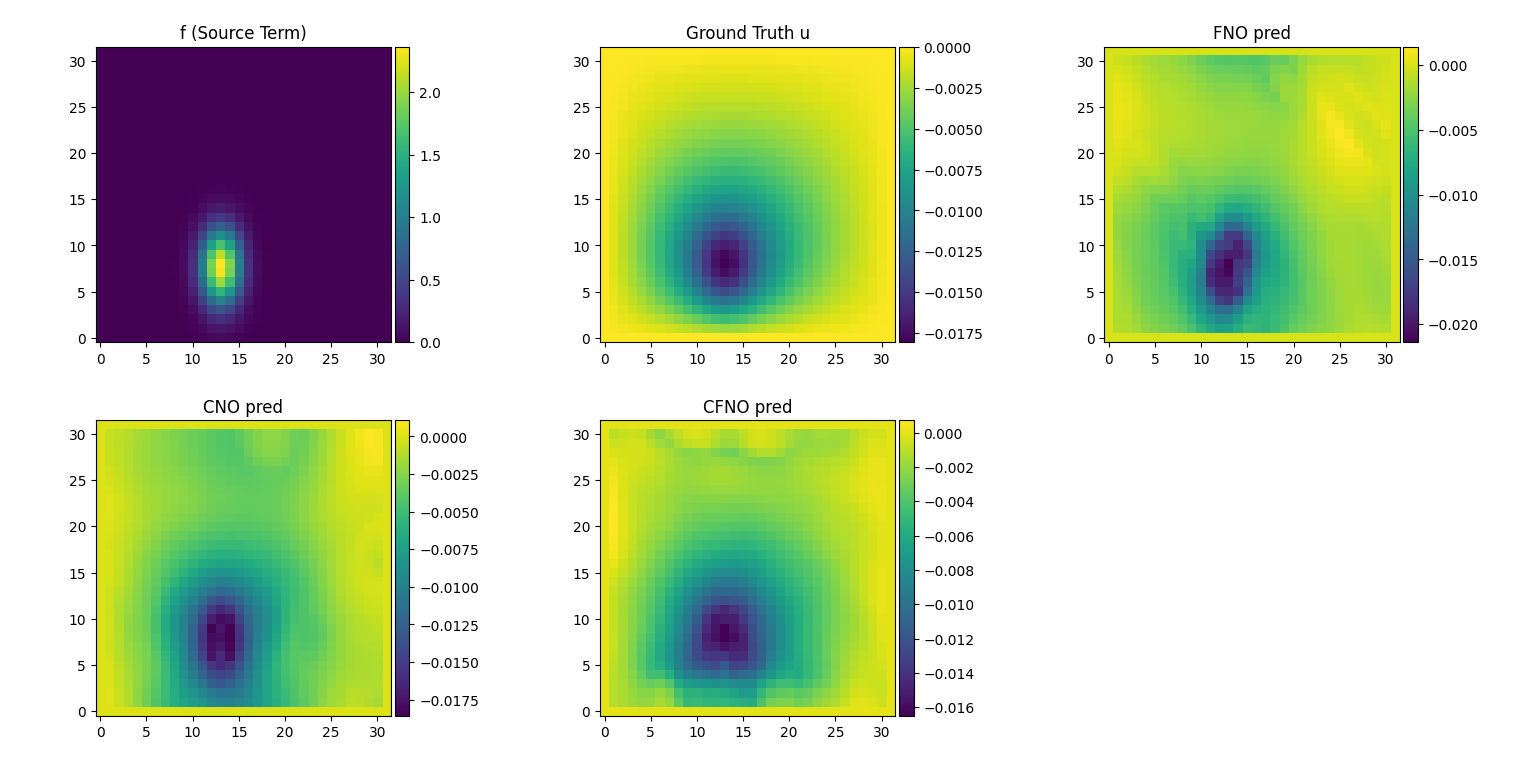
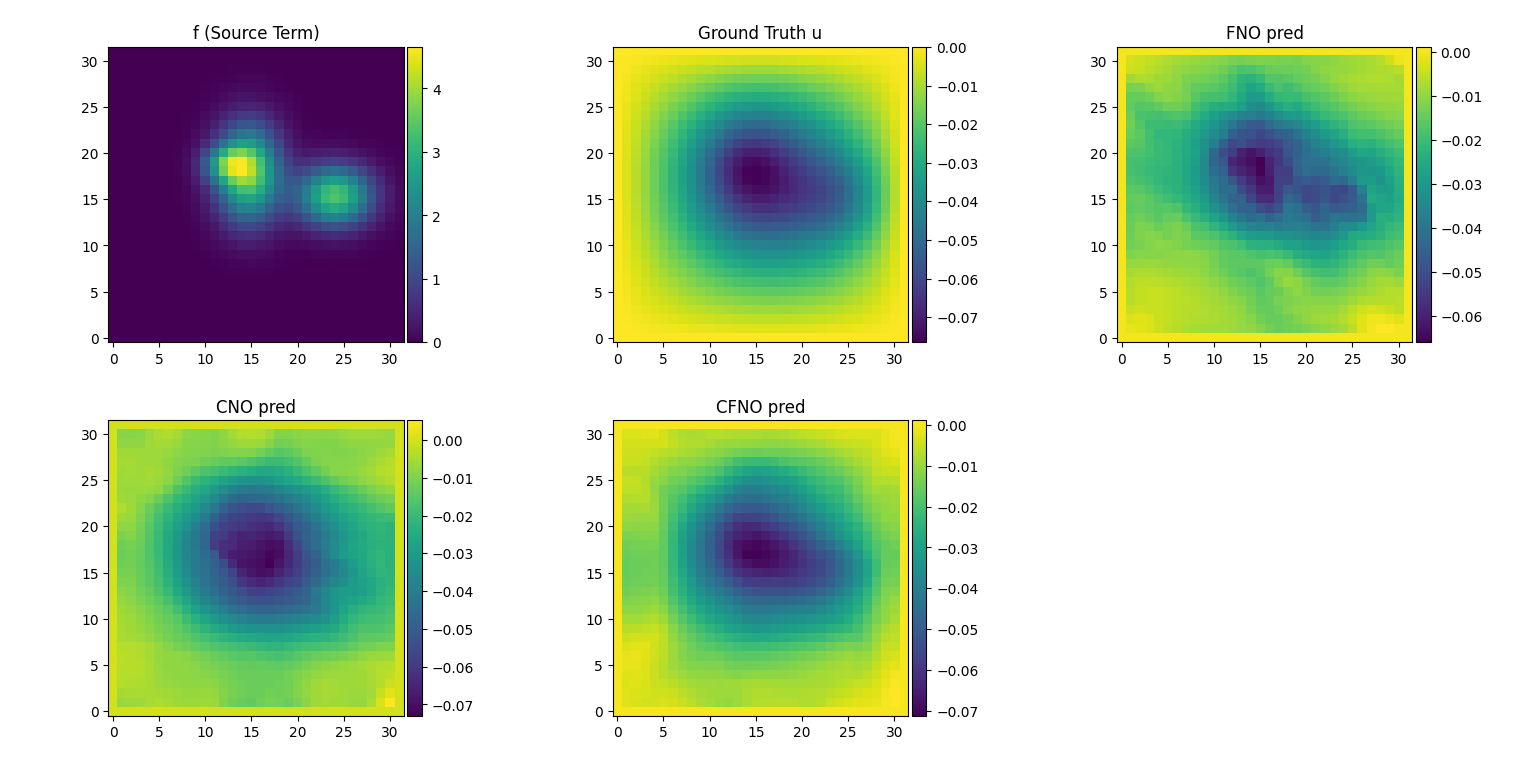
Add files via upload

diff --git a/WhyWeakFNO/CFNOvsCNOvsFNO.py b/WhyWeakFNO/CFNOvsCNOvsFNO.py
@@ -25,6 +25,9 @@ def seed_everything(seed):
     torch.backends.cudnn.benchmark = False
 
 
+seed_everything(seed=114514)
+
+
 # -------------------------
 # DCT/IDCT (DCT-II / DCT-III) 1D and separable 2D implementations
 # (same as earlier, batch + multi-dim friendly, differentiable)
@@ -244,6 +247,7 @@ class FNO2d_small(nn.Module):
         x = x.permute(0,3,1,2)
         return x
 
+
 # CNO model: use ChebSpectralConv2d blocks instead of Fourier
 class CNO2d_small(nn.Module):
     def __init__(self, cheb_modes=(8,8), width=16, depth=3):
@@ -316,20 +320,21 @@ def solve_poisson_jacobi(f, iters=500, tol=1e-6):
             break
     return u
 
+
 def make_dataset(n_samples=200, H=32, W=32):
-    # create random RHS f with localized sources (sum of gaussians)
+    # create random RHS f with localized sources (sum of gaussians bumps)
     X = []
     Y = []
     for _ in range(n_samples):
         f = torch.zeros(H, W)
         # add a few random gaussian bumps
-        for _ in range(np.random.randint(1,4)):
-            cx = np.random.uniform(0.2,0.8)
-            cy = np.random.uniform(0.2,0.8)
-            sx = np.random.uniform(0.03,0.12)
-            sy = np.random.uniform(0.03,0.12)
-            xv = torch.linspace(0,1,H)
-            yv = torch.linspace(0,1,W)
+        for _ in range(np.random.randint(1, 4)):
+            cx = np.random.uniform(0.2, 0.8)
+            cy = np.random.uniform(0.2, 0.8)
+            sx = np.random.uniform(0.03, 0.12)
+            sy = np.random.uniform(0.03, 0.12)
+            xv = torch.linspace(0, 1, H)
+            yv = torch.linspace(0, 1, W)
             Xg, Yg = torch.meshgrid(xv,yv, indexing='ij')
             g = torch.exp(-((Xg-cx)**2)/(2*sx**2) - ((Yg-cy)**2)/(2*sy**2))
             amp = np.random.uniform(-5,5)
@@ -342,8 +347,10 @@ def make_dataset(n_samples=200, H=32, W=32):
     Y = torch.stack(Y)  # [N,1,H,W]
     return X, Y
 
+
 # generate dataset
-H = W = 32
+H = 32
+W = 32
 n_train = 120
 n_val = 40
 n_test = 40
@@ -400,7 +407,6 @@ def train_model(model, X_train, Y_train, X_val, Y_val, epochs=60, batch_size=8, 
 
 if __name__ == '__main__':
     # -------------------- Instantiate and train three models --------------------
-    seed_everything(seed=114514)
     fno = FNO2d_small(modes=6, width=16, depth=3)
     cno = CNO2d_small(cheb_modes=(8,8), width=16, depth=3)
     cfno = CFNO2d_small(modes=6, cheb_modes=(8, 8), width=16, depth=3)
@@ -469,5 +475,10 @@ if __name__ == '__main__':
     plt.show()
 
     # Report MSEs in a small dict
-    results = {'model':['FNO','CNO','CFNO'], 'mse':[mse_fno, mse_cno, mse_cfno], 'time':[t_fno, t_cno, t_cfno]}
+    results = {'model': ['FNO', 'CNO', 'CFNO'], 'mse': [mse_fno, mse_cno, mse_cfno], 'time': [t_fno, t_cno, t_cfno]}
     print(pd.DataFrame(results))
+
+
+# next plan: 1d case (linear, nonlinear) 2d case (nonlinear)
+# corresponding weak form training strategy
+# (8 cases in total)
